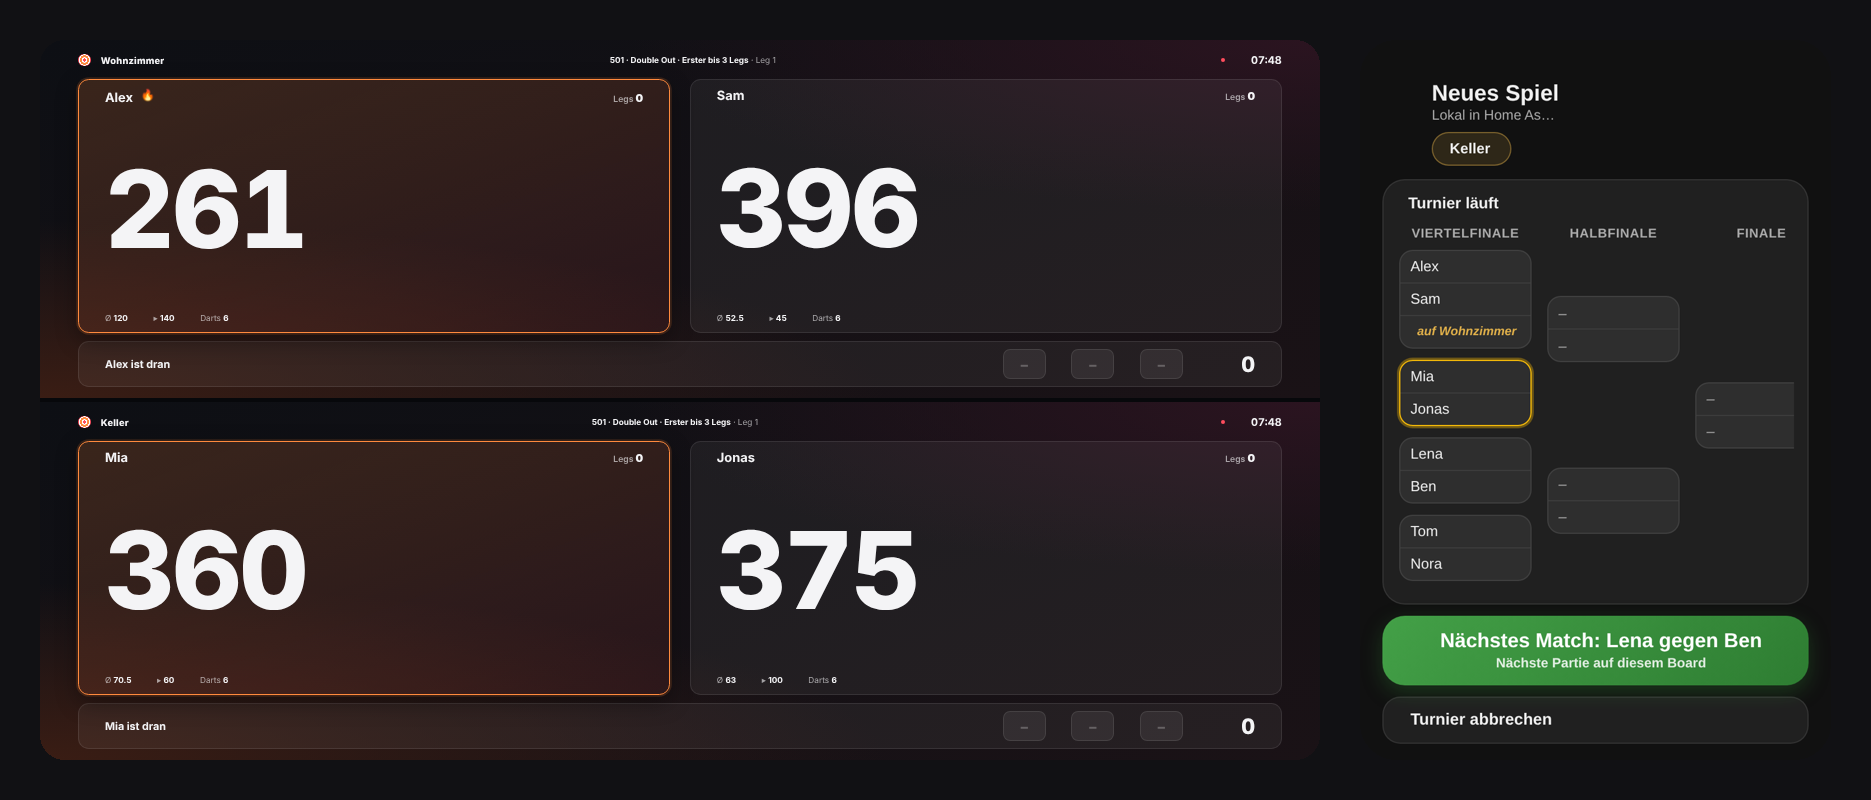
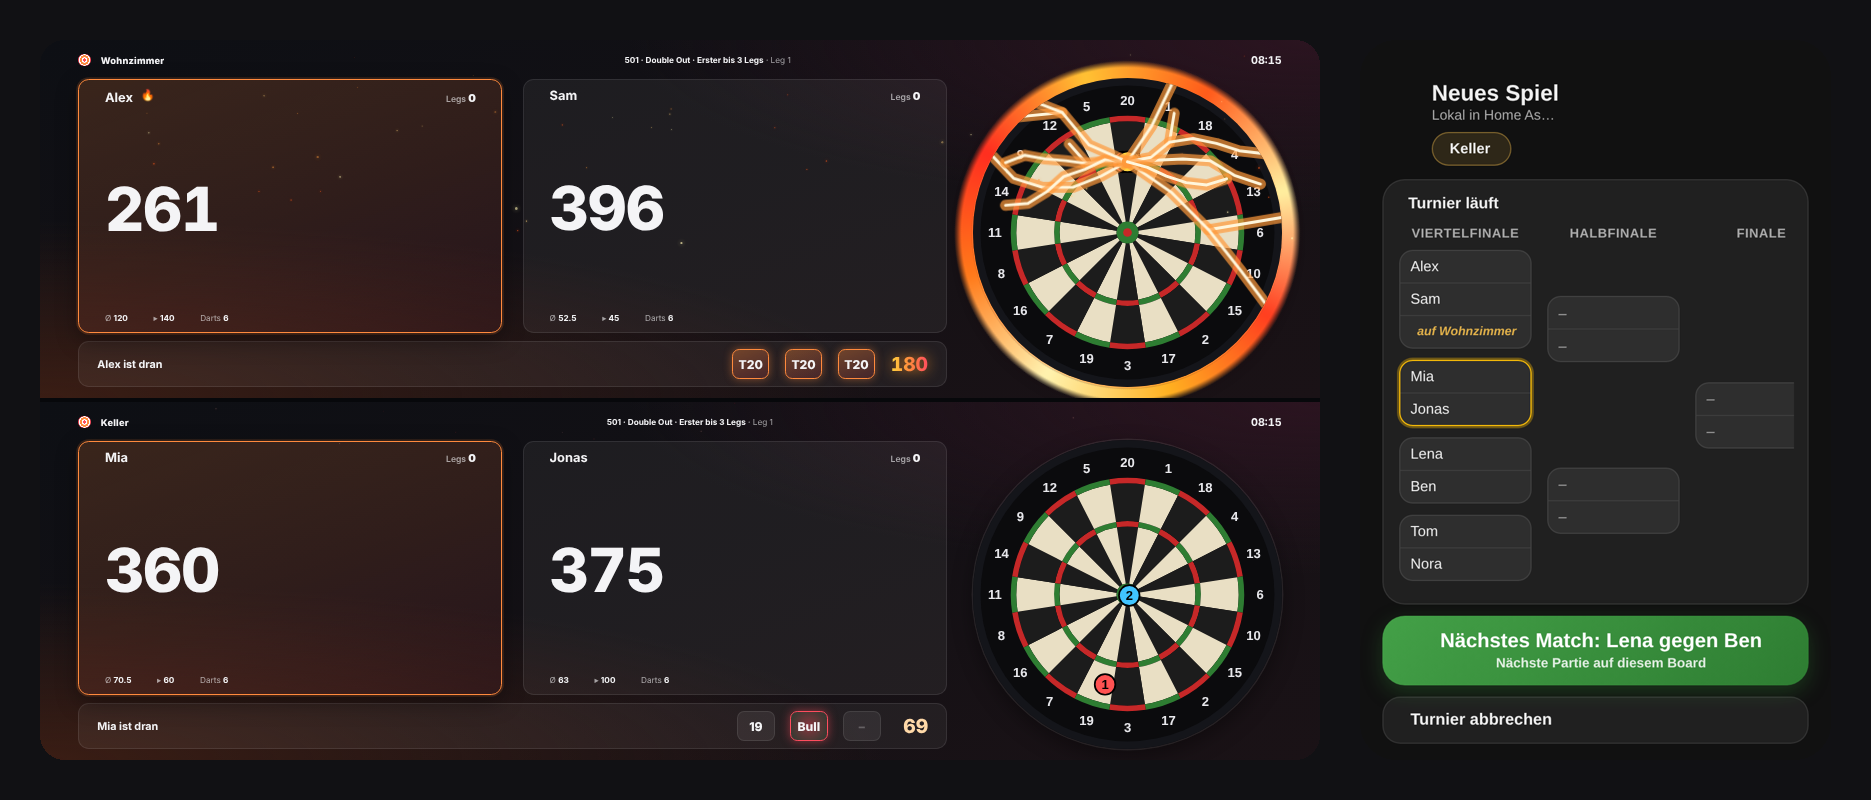
1.38.1: board bar in DartNest, pictures of several boards (#38)
* README: real screenshots for settings, Board Manager, LED clock card and tile window

Claude-Session: https://claude.ai/code/session_015s6FHPcDEM5dKaJCg1CoTH

* 1.34.0: Changes from the HACS review

- Remove the self-update entity; HACS handles updates (old entity is removed)
- Drop Chromecast: no access to Google Cast internals any more
- Settings and device-reaching services are admin-only
- TV link with its secret key no longer in entity attributes; TV card
  gets it via the admin-only websocket command autodarts/tv/link

Claude-Session: https://claude.ai/code/session_015s6FHPcDEM5dKaJCg1CoTH

* README: DartNest is in the official HACS list

Claude-Session: https://claude.ai/code/session_015s6FHPcDEM5dKaJCg1CoTH

* README: HACS default badge

Claude-Session: https://claude.ai/code/session_015s6FHPcDEM5dKaJCg1CoTH

* 1.37.1: own caller packs play their sounds even without a player name

Claude-Session: https://claude.ai/code/session_015s6FHPcDEM5dKaJCg1CoTH

* 1.37.1: pack sounds only, pack contents in green/red, new sounds count at once

Claude-Session: https://claude.ai/code/session_015s6FHPcDEM5dKaJCg1CoTH

* 1.38.0: several boards

Add more Autodarts boards as further entries. Players, statistics,
tournaments and caller packs are shared; game, cameras, lights, speakers,
LED clock, power plug and TV link are per board. Cards get a board button,
tournaments spread matches over free boards, and the TV can show all
[…]

diff --git a/custom_components/autodarts/frontend/autodarts-cards.js b/custom_components/autodarts/frontend/autodarts-cards.js
@@ -338,8 +338,8 @@ button:disabled{opacity:.38;cursor:default;transform:none}
       (entCache[g] = entCache[g] || {})[k] = e.entity_id;
       if (k === 'sensor.game' && e.device_id) geraete[e.device_id] = 1;
     });
-    bListe = Object.keys(geraete).map(id => { const d = (h.devices || {})[id] || {}; return { id, name: d.name_by_user || d.name || 'Board' }; })
-      .sort((a, b) => a.name.localeCompare(b.name, undefined, { numeric: true }));
+    // in the order they were added: the first board comes first
+    bListe = Object.keys(geraete).map(id => { const d = (h.devices || {})[id] || {}; return { id, name: d.name_by_user || d.name || 'Board' }; });
   };
   const boards = h => { entLesen(h && (h.__dnRoh || h)); return bListe; };
   // the board a card shows: set in the card (name or device id), else the one picked last, else the first
@@ -375,19 +375,27 @@ button:disabled{opacity:.38;cursor:default;transform:none}
     };
     return w;
   };
+  // state of one board: playing / ready / off (panel bar)
+  const boardZustand = (h, id) => {
+    entLesen(h && (h.__dnRoh || h));
+    const g = (entCache && entCache[id]) || {}, roh = h && (h.__dnRoh || h);
+    const ph = att(roh, g['sensor.game']).phase, v = zst(roh, g['sensor.connection']);
+    if (ph === 'bulloff' || ph === 'laeuft') return 'spielt';
+    return v === undefined || v === 'Offline' || v === 'unavailable' ? 'aus' : 'bereit';
+  };
   const naechstesBoard = h => { const l = boards(h), i = l.findIndex(b => b.id === boardId(h)); return l[(i + 1) % l.length]; };
   // the button in the head of a card: name of the board, tap = next board (several boards only)
-  Object.assign(TEXTE.en, { board_next: 'Show {b}', tv_all: 'Show all boards', tv_all_s: 'Boards that play now share the screen, the others step aside', t_on_board: 'on {b}', t_next_here: 'Next match on this board' });
-  Object.assign(TEXTE.de, { board_next: '{b} zeigen', tv_all: 'Alle Boards zeigen', tv_all_s: 'Boards, auf denen gerade gespielt wird, teilen sich das Bild', t_on_board: 'auf {b}', t_next_here: 'Nächste Partie auf diesem Board' });
+  Object.assign(TEXTE.en, { board_next: 'Show {b}', tv_all: 'Show all boards', tv_all_s: 'Boards that play now share the screen, the others step aside', t_on_board: 'on {b}', t_next_here: 'Next match on this board', b_spielt: 'playing', b_bereit: 'ready', b_aus: 'off' });
+  Object.assign(TEXTE.de, { board_next: '{b} zeigen', tv_all: 'Alle Boards zeigen', tv_all_s: 'Boards, auf denen gerade gespielt wird, teilen sich das Bild', t_on_board: 'auf {b}', t_next_here: 'Nächste Partie auf diesem Board', b_spielt: 'spielt', b_bereit: 'bereit', b_aus: 'aus' });
   const BRD_CSS = '.bwahl{display:inline-flex;align-items:center;gap:6px;max-width:46%;flex:none;border:1px solid color-mix(in srgb,var(--primary-color) 45%,transparent);' +
     'background:color-mix(in srgb,var(--primary-color) 14%,transparent);color:var(--primary-text-color);border-radius:999px;padding:6px 12px 6px 9px;font:inherit;font-size:13px;font-weight:700;cursor:pointer;-webkit-tap-highlight-color:transparent;transition:transform .15s,background .2s}' +
     '.bwahl:active{transform:scale(.95)}.bwahl[hidden]{display:none}.bwahl ha-icon{--mdc-icon-size:18px;color:var(--primary-color);flex:none}.bwahl span{overflow:hidden;text-overflow:ellipsis;white-space:nowrap}' +
     '.bwahl.fest{cursor:default;background:none;border-color:transparent;padding-left:0}.bwahl.wechsel{animation:brdw .45s cubic-bezier(.2,1.4,.4,1)}@keyframes brdw{from{transform:scale(.85);opacity:.4}}';
   const brdHtml = () => '<button class="bwahl" data-act="brd" hidden><ha-icon icon="mdi:bullseye"></ha-icon><span></span><ha-icon class="pf" icon="mdi:swap-horizontal"></ha-icon></button>';
-  const brdZeigen = (el, h) => {
+  const brdZeigen = (el, h, aus) => {
     if (!el) return;
     const l = boards(h), fest = !!(h && h.__dnFest);
-    el.hidden = l.length < 2;
+    el.hidden = aus || l.length < 2;
     if (el.hidden) return;
     const name = boardName(h);
     const sp = el.querySelector('span');
@@ -655,7 +663,7 @@ button:disabled{opacity:.38;cursor:default;transform:none}
     }
     _zeichnen() {
       const h = this._h, r = this._r, c = this._c;
-      brdZeigen(r.querySelector('.szene > .bwahl'), h);
+      brdZeigen(r.querySelector('.szene > .bwahl'), h, this._orig.board_button === false);
       const sz = this._szene(), [name, icon] = SZ[sz];
       if (this.getAttribute('sz') !== sz) this.setAttribute('sz', sz);
       const online = ['bereit', 'ziehen', 'kalib', 'gestoppt', 'standby', 'weg'].includes(sz) || (sz === 'startet' && zst(h, E(h, 'sensor.status')) === 'starting');
@@ -1139,7 +1147,7 @@ ha-card{padding:14px 14px 16px;container-type:inline-size}
       sprachePruefen(h);
       if (!this._r) this._grund();
       if (this._spr !== SPR) { this._spr = SPR; this._alt = null; this._kxAlt = null; this._werteAlt = null; this._r.querySelector('[data-act=zurueck]').title = t('back'); }
-      if (!this.constructor.GEMEINSAM) brdZeigen(this._r.querySelector('.bwahl'), this._h);
+      if (!this.constructor.GEMEINSAM) brdZeigen(this._r.querySelector('.bwahl'), this._h, this._c && this._c.board_button === false);
       const b = this._h && this._h.__dnBoard;
       if (this._board !== undefined && this._board !== b) this._neuesBoard();
       this._board = b;
@@ -3715,6 +3723,16 @@ ha-card.fx-stoss{animation:fx-stoss .45s ease-out}
 .tabs button.an{opacity:1;border-bottom-color:var(--primary-color);color:var(--primary-color)}
 .tabs ha-icon{--mdc-icon-size:20px}
 .inhalt{max-width:1100px;margin:0 auto;padding:16px;box-sizing:border-box}
+.boards{display:flex;justify-content:center;padding:14px 16px 0}.boards[hidden]{display:none}
+.boards .seg{display:inline-flex;gap:4px;padding:4px;border-radius:999px;background:color-mix(in srgb,var(--primary-text-color) 7%,transparent);border:1px solid var(--divider-color,rgba(127,127,127,.2));max-width:100%;overflow-x:auto;scrollbar-width:none}
+.boards button{font:inherit;color:inherit;background:none;border:0;border-radius:999px;padding:7px 16px 7px 12px;display:flex;align-items:center;gap:9px;cursor:pointer;white-space:nowrap;-webkit-tap-highlight-color:transparent;transition:background .25s,color .25s,box-shadow .25s}
+.boards button b{font-size:14px;font-weight:700}.boards button small{font-size:12px;opacity:.7;font-weight:600}
+.boards button.an{background:var(--primary-color);color:var(--text-primary-color,#fff);box-shadow:0 4px 14px color-mix(in srgb,var(--primary-color) 40%,transparent)}
+.boards i{width:9px;height:9px;border-radius:50%;flex:none;background:#8a8a93}
+.boards i.bereit{background:#43a047}.boards i.spielt{background:#ff7043;box-shadow:0 0 0 0 rgba(255,112,67,.6);animation:bpuls 1.6s infinite}
+.boards button.an i.bereit,.boards button.an i.aus{background:currentColor;opacity:.85}
+@keyframes bpuls{70%{box-shadow:0 0 0 7px rgba(255,112,67,0)}100%{box-shadow:0 0 0 0 rgba(255,112,67,0)}}
+@media (prefers-reduced-motion:reduce){.boards i.spielt{animation:none}}
 @media (max-width:640px){.leiste .name{display:none}.tabs button{padding:0 10px}.tabs button span{display:none}.tabs button.an span{display:inline}.inhalt{padding:8px}}`;
   class AutodartsPanel extends HTMLElement {
     set hass(h) { this._h = h; sprachePruefen(h); this._zeigen(); }
@@ -3724,11 +3742,13 @@ ha-card.fx-stoss{animation:fx-stoss .45s ease-out}
     connectedCallback() {
       if (!this._r) {
         this._r = this.attachShadow({ mode: 'open' });
-        this._r.innerHTML = '<style>' + PANEL_CSS + '</style><div class="leiste"><ha-menu-button></ha-menu-button><span class="name">DartNest</span><div class="tabs"></div></div><div class="inhalt"></div>';
+        this._r.innerHTML = '<style>' + PANEL_CSS + '</style><div class="leiste"><ha-menu-button></ha-menu-button><span class="name">DartNest</span><div class="tabs"></div></div><div class="boards" hidden><div class="seg"></div></div><div class="inhalt"></div>';
         this._menu = this._r.querySelector('ha-menu-button');
         this._r.querySelector('.tabs').addEventListener('click', e => { const b = e.target.closest('[data-tab]'); if (b) gehe('/' + this._basis() + '/' + b.dataset.tab); });
+        this._r.querySelector('.boards').addEventListener('click', e => { const b = e.target.closest('[data-b]'); if (b) boardWaehlen(b.dataset.b); });
         this._ort = () => this._zeigen();
         this._karten = {};
+        window.addEventListener('dartnest-board', () => this._zeigen());
       }
       window.addEventListener('location-changed', this._ort);
       window.addEventListener('popstate', this._ort);
@@ -3747,8 +3767,16 @@ ha-card.fx-stoss{animation:fx-stoss .45s ease-out}
       if (!k) {
         const def = PANEL_TABS.find(x => x[0] === tab);
         k = document.createElement(def[1]);
-        k.setConfig(tab === 'board' ? { game_path: basis + 'spiel', manager_path: basis + 'manager', players_path: basis + 'spieler' } : { back_button: false });
+        k.setConfig(tab === 'board' ? { game_path: basis + 'spiel', manager_path: basis + 'manager', players_path: basis + 'spieler', board_button: false } : { back_button: false, board_button: false });
         this._karten[tab] = k;
+      }
+      // several boards: one bar for the whole panel, the cards follow it (their own board button stays hidden)
+      const l = boards(this._h), bar = this._r.querySelector('.boards');
+      bar.hidden = l.length < 2;
+      if (!bar.hidden) {
+        const akt = boardId(this._h);
+        const html = l.map(b => { const z = boardZustand(this._h, b.id); return '<button data-b="' + esc(b.id) + '" class="' + (b.id === akt ? 'an' : '') + '"><i class="' + z + '"></i><b>' + esc(b.name) + '</b><small>' + t('b_' + z) + '</small></button>'; }).join('');
+        if (html !== this._barAlt) { this._barAlt = html; bar.firstChild.innerHTML = html; }
       }
       const box = this._r.querySelector('.inhalt');
       if (box.firstChild !== k) { box.innerHTML = ''; box.appendChild(k); }

diff --git a/README.md b/README.md
@@ -103,9 +103,17 @@ The TV **plays along with the match**: every dart sparks where it lands, and wha
 
 ## Several boards
 
-<p align="center"><img src="https://raw.githubusercontent.com/Wadim-dev/DartNest_ha/main/docs/images/boards.png" alt="Two boards playing at once on one TV, tournament with the next match on the second board" width="900"></p>
+<p align="center"><img src="https://raw.githubusercontent.com/Wadim-dev/DartNest_ha/main/docs/images/boards-panel.png" alt="DartNest with two boards: board bar with Wohnzimmer and Keller on PC and phone" width="900"></p>
 
-Got more than one board? Each one announces itself – confirm it like the first, or add it by hand with **Add entry** and its IP address, and give it a name like *Keller*. **Players, statistics, ranking, tournaments and caller packs are shared**; each board has its **own game, cameras, Board Manager, lights, speakers, LED clock and power plug**. Every DartNest screen gets a small board button in its head – tap it to switch to the next board. With one board you never see it. In a **tournament** the next match starts on the board you tap, and when the tournament starts the free boards get a match each; the bracket shows which match runs *on Keller*. On the TV pick **Show all boards**: every board that plays shares the screen, when only one is left it gets the whole screen again.
+Got more than one board? Each one announces itself – confirm it like the first, or add it by hand with **Add entry** and its IP address, and give it a name like *Keller*. **Players, statistics, ranking, tournaments and caller packs are shared**; each board has its **own game, cameras, Board Manager, lights, speakers, LED clock and power plug**. At the top of DartNest a **board bar** shows every board with its state – *playing*, *ready* or *off* – and one tap switches all screens to that board. Cards on your own dashboard get a small board button in their head instead. With one board you see none of this.
+
+<p align="center"><img src="https://raw.githubusercontent.com/Wadim-dev/DartNest_ha/main/docs/images/boards-live.gif" alt="One TV, two boards: a 180 cracks the board in the living room while a bullseye flashes in the basement" width="900"></p>
+
+On the TV switch on **Show all boards**: every board that plays gets its part of the screen, **each with its own live effects** – a 180 cracks the board in the living room while the bullseye flashes in the basement. When only one board is left, it gets the whole screen again.
+
+<p align="center"><img src="https://raw.githubusercontent.com/Wadim-dev/DartNest_ha/main/docs/images/boards.png" alt="Both boards on the TV, tournament bracket with a match running on the other board" width="900"></p>
+
+In a **tournament** every free board gets a match when it starts, and *Next match* starts the next free match on the board you tap; players still busy on another board wait. The bracket shows which match runs *on Keller*.
 
 ## Stream and highlights
 
@@ -807,7 +815,7 @@ Private project, no outside contributions. The code meets all rules of the Home 
 - **Besser werden:** Average, First 9, Checkout-Quote, Wertung, Trend, Abzeichen, direkter Vergleich, Rangliste und die **Zielhilfe** – wo du mit deiner Streuung am meisten triffst.
 - **Turniere:** K.-o. (3–32 Spieler), Doppel-K.-o. mit Verliererrunde (3–16), Gruppen + K.-o. (6–32) oder Liga (3–10), auch als 2er-Teams oder mit Handicap.
 - **Fernseher:** Spielstand groß auf Fire TV oder Google TV, live mit jedem Dart, auf Wunsch mit deiner Dartscheibe live aus der Kamera daneben. Die Anzeige spielt mit: jeder Dart funkt dort, wo er steckt, und je nach Wurf und Spielstand passiert etwas anderes – bei 180 reißt das Board, beim Überwerfen schmilzt es, beim Checkout dreht es sich in Gold, beim Matchdart hält der ganze Bildschirm die Luft an; zwischen den Spielen Uhr, Rangliste und letzte Spiele. *DartNest → Fernseher*, Fernseher wählen, **Auf dem Fernseher zeigen** – oder von selbst bei jedem Spielstart.
-- **Mehrere Boards:** Jedes weitere Board meldet sich genauso (oder unter *Geräte & Dienste → DartNest → Eintrag hinzufügen*). Spieler, Statistik, Rangliste, Turniere und Ansager-Packs sind gemeinsam; Spiel, Kameras, Board Manager, Licht, Lautsprecher, LED-Uhr und Steckdose hat jedes Board für sich. Oben in jeder Seite wechselt ein kleiner Board-Knopf zum nächsten Board – mit nur einem Board ist er nicht zu sehen. Turniere verteilen die Partien auf die freien Boards, der Turnierbaum zeigt „auf Keller“. Am Fernseher **Alle Boards zeigen**: alle Boards, auf denen gespielt wird, teilen sich das Bild.
+- **Mehrere Boards:** Jedes weitere Board meldet sich genauso (oder unter *Geräte & Dienste → DartNest → Eintrag hinzufügen*). Spieler, Statistik, Rangliste, Turniere und Ansager-Packs sind gemeinsam; Spiel, Kameras, Board Manager, Licht, Lautsprecher, LED-Uhr und Steckdose hat jedes Board für sich. Oben in DartNest zeigt eine Board-Leiste jedes Board mit Zustand (spielt, bereit, aus), ein Tipp stellt alle Seiten auf dieses Board; Karten im eigenen Dashboard haben dafür einen kleinen Board-Knopf. Mit nur einem Board ist davon nichts zu sehen. Turniere verteilen die Partien auf die freien Boards, der Turnierbaum zeigt „auf Keller“. Am Fernseher **Alle Boards zeigen**: alle Boards, auf denen gespielt wird, teilen sich das Bild, jedes mit seinen eigenen Live-Effekten.
 - **Stream und Highlights:** Overlay-Link aus der Fernseher-Karte als Browser-Quelle in OBS oder Streamlabs – durchsichtiger Spielstand über deinem Kamerabild. **Highlights** speichert jede 180, jedes Finish ab 100 und den Match-Dart als kurzes, gerade gerücktes Video der Board-Kamera – mit Explosion und bebendem Bild genau dort und dann, wo der letzte Dart einschlägt; ansehen, herunterladen oder löschen in der Karte *DartNest → Highlights*, auf Wunsch sofort als Wiederholung am Fernseher und im Overlay.
 - **LED-Uhr:** AWTRIX 3 (Ulanzi TC001) oder PixelIt unter *DartNest → Pixel-Anzeige* mit der IP-Adresse hinzufügen – während des Spiels zeigt sie Name und Rest des Spielers am Oche, bei 180, Checkout, Bust und Sieg einen kurzen Effekt, danach wieder ihre eigenen Apps.
 - **Board Manager in HA:** Kameras mit Kalibriernetz, Start/Stopp, Kalibrieren, Updates. Board-PC darf per Steckdose aus sein: Steckdose einmal unter *Board Manager → Steckdose des Board-PCs* wählen, dann hat jede DartNest-Seite den Ein/Aus-Knopf. Schont kleine PCs: Livebilder teilen sich eine Bildquelle (höchstens 10 Bilder/s, nur wenn jemand zusieht), Kamera-Standby wird als „Standby“ gezeigt und beim Spielstart selbst geweckt.

diff --git a/CHANGELOG.md b/CHANGELOG.md
@@ -3,6 +3,18 @@
 Each version lists the changes in English and German. The release notes on GitHub
 and in the Home Assistant update dialog are taken from this file automatically.
 
+## 1.38.1
+
+- **Board bar in DartNest.** With more than one board, DartNest shows all boards at the top with their state (*playing*, *ready*, *off*); one tap switches every page. The small board button inside the cards stays for cards on your own dashboard.
+- **Boards in the order they were added.** The first board always comes first, no longer sorted by name.
+- README: pictures and an animation of two boards at once on the TV, each with its own effects.
+
+**Deutsch**
+
+- **Board-Leiste in DartNest.** Ab zwei Boards zeigt DartNest oben alle Boards mit Zustand (*spielt*, *bereit*, *aus*); ein Tipp stellt alle Seiten um. Der kleine Board-Knopf in den Karten bleibt für Karten im eigenen Dashboard.
+- **Boards in der Reihenfolge des Hinzufügens.** Das erste Board steht immer vorn, nicht mehr nach Namen sortiert.
+- README: Bilder und eine Animation mit zwei Boards gleichzeitig am Fernseher, jedes mit eigenen Effekten.
+
 ## 1.38.0
 
 - **New: several boards.** Add another Autodarts board like the first: it announces itself in the network, or use *Devices & services → DartNest → Add entry*. Name the device (e.g. *Keller*) and the name shows everywhere.
